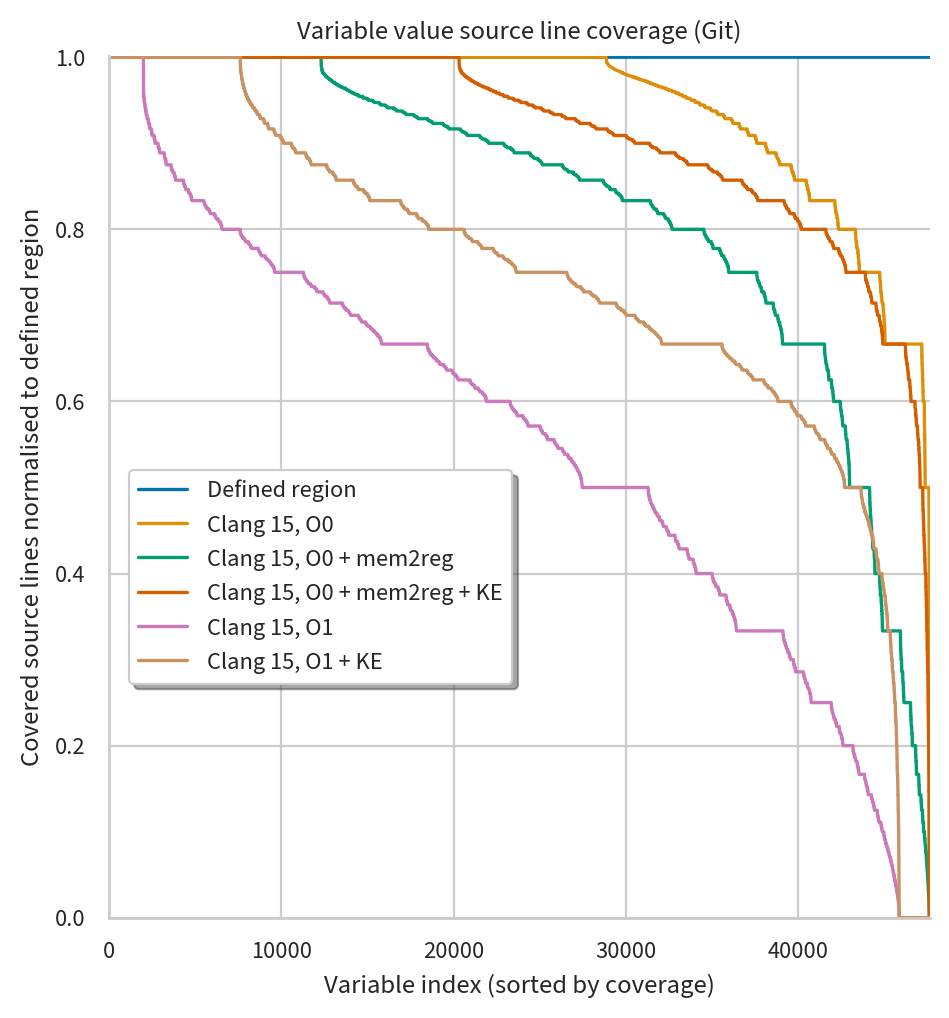
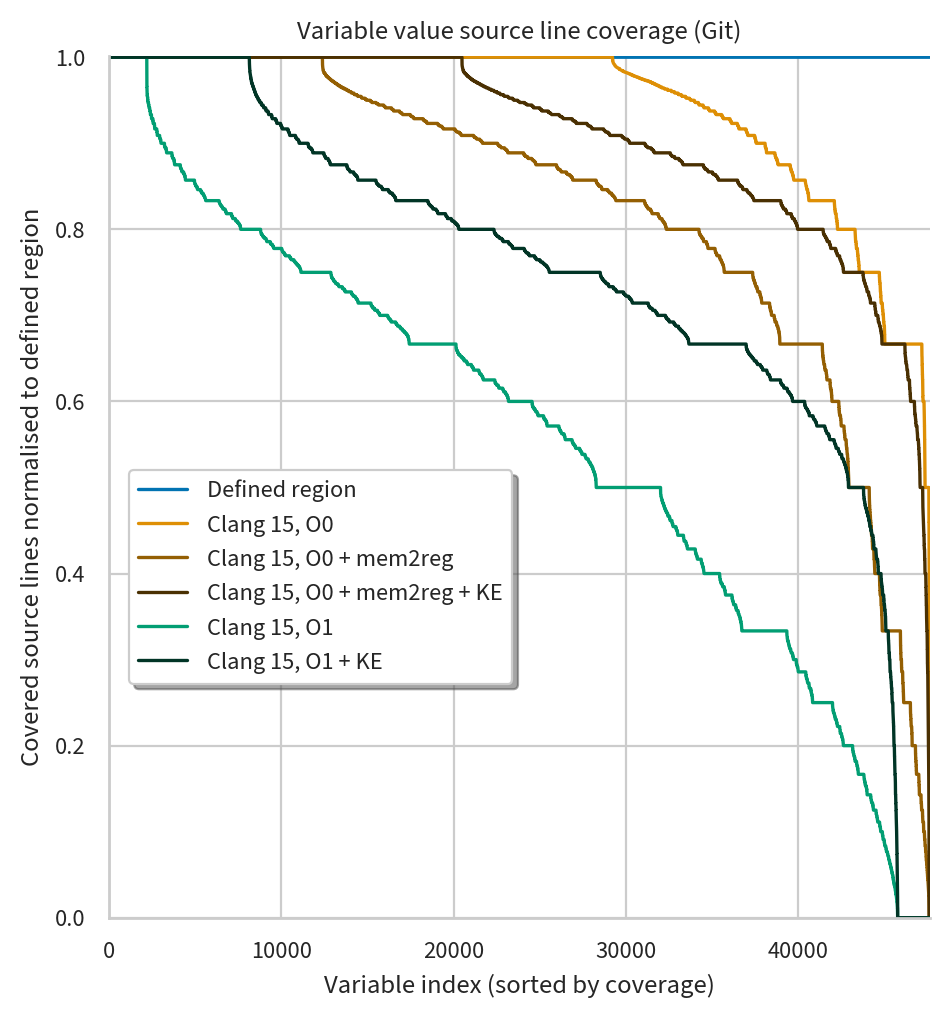
Use same hue for each family of lines in KE plot

diff --git a/data/shared/package_plots.py b/data/shared/package_plots.py
@@ -222,12 +222,29 @@ def coverage_with_ke_sorted_independently(df):
       variants.str.contains("Clang 15")
     )
   ]
+
+  def lightness(color, amount):
+    import colorsys
+    c = colorsys.rgb_to_hls(*color)
+    return colorsys.hls_to_rgb(c[0], max(0, min(1, amount * c[1])), c[2])
+
+  base_palette = sns.color_palette("colorblind", n_colors=3)
+  palette = [
+    base_palette[0],                 # Defined region
+    base_palette[1],                 # Clang 15, O0
+    lightness(base_palette[1], 2/3), # Clang 15, O0 + mem2reg
+    lightness(base_palette[1], 1/3), # Clang 15, O0 + mem2reg + KE
+    base_palette[2],                 # Clang 15, O1
+    lightness(base_palette[2], 1/3), # Clang 15, O1 + KE
+  ]
+
   g = sns.relplot(
     df,
     x="Order",
     y="FCL / SSL",
     hue="Variant",
     kind="line",
+    palette=palette,
   )
   sns.move_legend(
     g,
